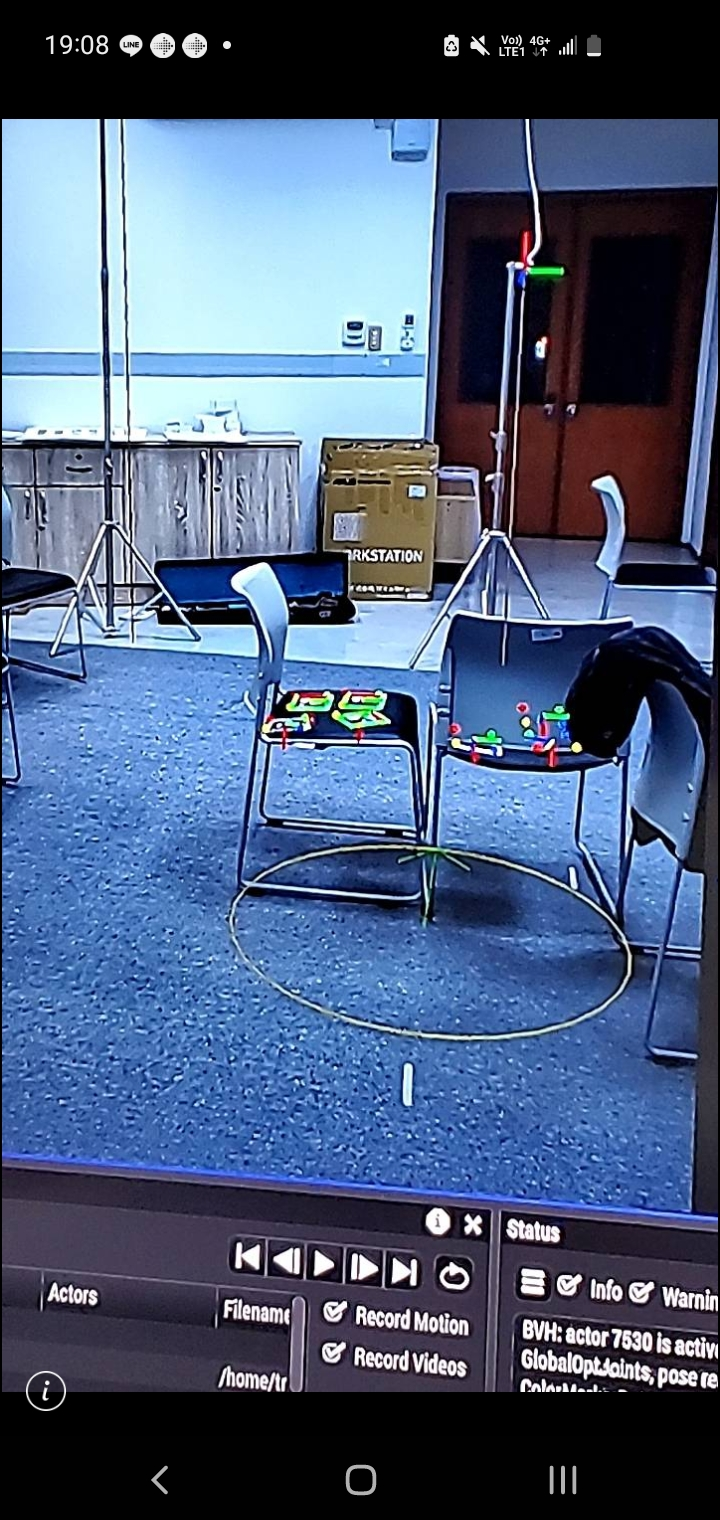
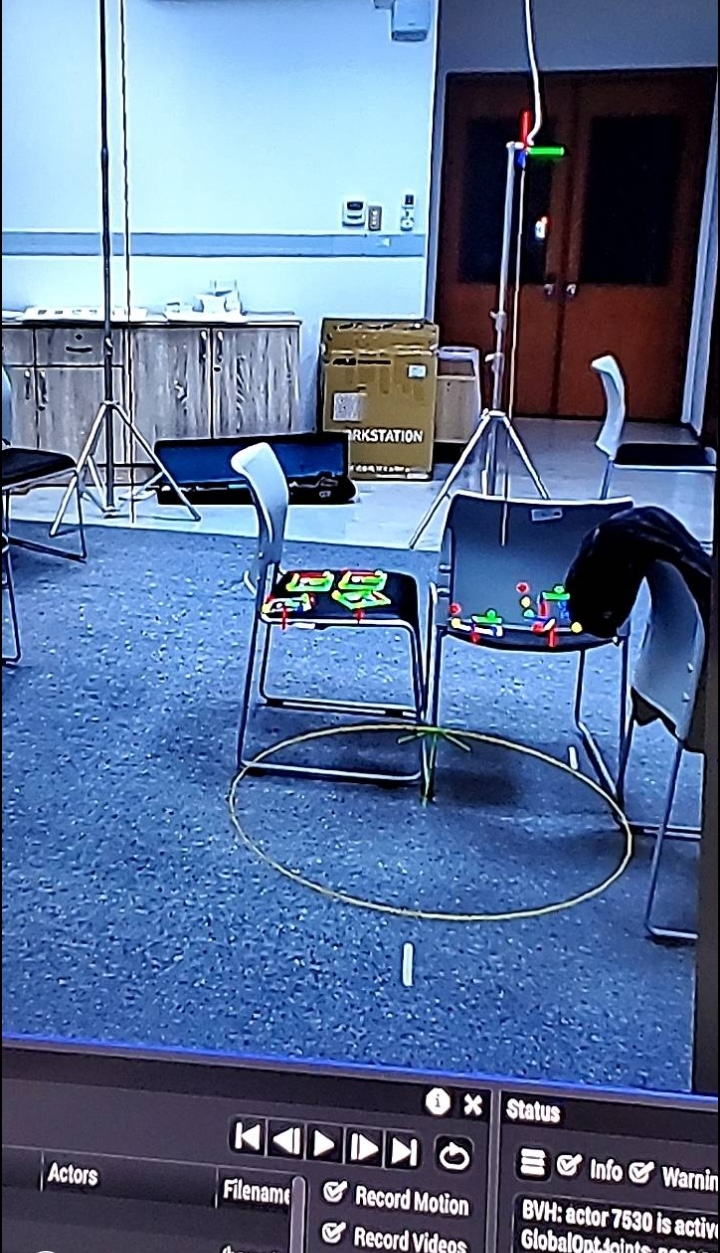
update portfolio

diff --git a/cases/live-concert-sync.html b/cases/live-concert-sync.html
@@ -8,33 +8,42 @@
     <meta http-equiv="Content-Security-Policy"
         content="default-src 'self'; script-src 'self'; style-src 'self' 'unsafe-inline'; font-src 'self'; img-src 'self' data: blob:; media-src 'self' data: blob:; connect-src 'self'; worker-src 'self' blob:; object-src 'none'; base-uri 'self'">
     <title>Erhu Live Concert AI Motion Capture Sync | Kim Fung</title>
-    <meta name="description" content="Real-time dual-venue synchronization of live Erhu performance audio and AI motion capture telemetry across a 1,000-seat concert hall and virtual campus using Unity and MQTT.">
+    <meta name="description" content="Real time dual venue synchronization of live Erhu performance audio and AI motion capture telemetry across a 1,000 seat concert hall and virtual campus using Unity and MQTT.">
+    <link rel="icon" href="../assets/favicon.svg" type="image/svg+xml">
     <!-- Self-hosted fonts: no third-party requests -->
-    <link rel="preload" href="../assets/fonts/vendor/opensans-latin.woff2" as="font" type="font/woff2" crossorigin>
+    <link rel="preload" href="../assets/fonts/vendor/manrope-latin-600.woff2" as="font" type="font/woff2" crossorigin fetchpriority="high">
+    <link rel="preload" href="../assets/fonts/vendor/geist-mono-latin-400.woff2" as="font" type="font/woff2" crossorigin>
     <link rel="stylesheet" href="../assets/fonts/fonts.css">
     <link rel="stylesheet" href="../style.css">
     <link rel="stylesheet" href="case.css">
+    <link rel="stylesheet" href="live-concert-sync.css">
 </head>
 
 <body class="case-page">
+    <a href="#main-content" class="skip-to-content">Skip to content</a>
 
     <header class="case-nav">
         <div class="case-container case-nav-inner">
             <a href="../index.html" class="case-nav-brand">Kim Fung</a>
             <nav class="case-nav-links">
-                <a href="../index.html#experience" class="case-nav-link back-link">Back to Journey</a>
+                <a href="../index.html#showcases" class="case-nav-link back-link">Back to my works</a>
                 <a href="ieee-vr-conflict.html" class="case-nav-link">Next Case</a>
             </nav>
         </div>
     </header>
 
-    <main class="case-container">
+    <main class="case-container" id="main-content">
 
         <header class="case-hero">
-            <span class="case-kicker">Concert Hall Systems Integration</span>
-            <h1 class="case-title">Synchronized live stage audio and AI motion capture across physical and virtual venues</h1>
+            <div class="case-media-hero">
+                <video controls autoplay muted loop playsinline poster="../assets/system_integration/rehearsal-erhu-concert.jpg">
+                    <source src="../assets/system_integration/virtual_concert.mp4" type="video/mp4">
+                    Your browser does not support the video tag.
+                </video>
+            </div>
+
             <p class="case-subtitle">
-                I engineered an MQTT and WebSocket telemetry pipeline in Unity to synchronize live Erhu audio with optical motion capture, broadcasting simultaneously to a 1,000-seat concert hall and an interactive virtual campus.
+                I engineered an MQTT and WebSocket telemetry pipeline in Unity to synchronize live Erhu audio with optical motion capture, broadcasting simultaneously to a 1,000 seat concert hall and an interactive virtual campus.
             </p>
 
             <div class="case-meta-grid">
@@ -57,21 +66,14 @@
             </div>
         </header>
 
-        <div class="case-media-hero">
-            <video controls autoplay muted loop playsinline poster="../assets/system_integration/rehearsal-erhu-concert.jpg">
-                <source src="../assets/system_integration/virtual_concert.mp4" type="video/mp4">
-                Your browser does not support the video tag.
-            </video>
-        </div>
-
         <section class="case-section">
             <h2 class="case-section-title">Context and Live Stage Problem</h2>
             <div class="case-body">
                 <p>
-                    When National Tainan University of the Arts staged a premier live Erhu concert in our 1,000-seat auditorium, I was responsible for integrating the real-time stage telemetry. The university wanted to project an interactive 3D virtual avatar on the auditorium stage that mirrored the master musician live, while simultaneously streaming that performance into an interactive virtual campus environment for remote attendees.
+                    When National Tainan University of the Arts staged a premier live Erhu concert in our 1,000 seat auditorium, I was responsible for integrating the real time stage telemetry. The university wanted to project an interactive 3D virtual avatar on the auditorium stage that mirrored the master musician live, while simultaneously streaming that performance into an interactive virtual campus environment for remote attendees.
                 </p>
                 <p>
-                    The live performance generated two distinct real-time streams at high frequencies: clean acoustic audio from stage microphones, and continuous skeletal motion tracking capturing the musician bowing arm, hand articulation, and posture.
+                    The live performance generated two distinct real time streams at high frequencies: clean acoustic audio from stage microphones, and continuous skeletal motion tracking capturing the musician bowing arm, hand articulation, and posture.
                 </p>
                 <p>
                     During early stage tests, the initial transmission setup broke down quickly. Sending raw motion capture frames directly across local sockets caused packet jitter and frame drops under the hall network load. When the performer transitioned into rapid bowing passages, the avatar arm snapped erratically between poses and fell behind the acoustic notes. If the visual bowing reversed direction even half a second after the audience heard the note strike, the illusion collapsed. At the same time, attempting to stream uncompressed joint hierarchies directly to remote virtual campus clients overloaded the stage machine and risked dropping frames onstage.
@@ -87,7 +89,7 @@
                 </p>
                 <ul>
                     <li>
-                        <strong>Musician Rehearsal Shadowing:</strong> I attended full rehearsals alongside the master musician to observe the relationship between physical gestures and musical attacks. I discovered that before rapid bowing phrases, the performer executed an organic preparatory motion roughly 0.8 seconds before sound onset. Rather than forcing unstable zero-latency algorithmic streaming, I calibrated a 1.5-second deterministic playback buffer in Unity. This buffer absorbed optical tracking variance and temporal network jitter while keeping visual bowing locked to musical timing.
+                        <strong>Musician Rehearsal Shadowing:</strong> I attended full rehearsals alongside the master musician to observe the relationship between physical gestures and musical attacks. I discovered that before rapid bowing phrases, the performer executed an organic preparatory motion roughly 0.8 seconds before sound onset. Rather than forcing unstable zero latency algorithmic streaming, I calibrated a 1.5-second deterministic playback buffer in Unity. This buffer absorbed optical tracking variance and temporal network jitter while keeping visual bowing locked to musical timing.
                     </li>
                     <li>
                         <strong>Payload Stripping and Vector Extraction:</strong> Raw motion tracking systems emit dense bone hierarchies that quickly flood local sockets. I built an ingestion pipeline in Unity via TCP sockets that discarded unnecessary coordinate trees, extracting only essential joint rotational vectors and root offsets. This compressed the transmission payload and eliminated redundant hierarchy recalculations on the stage rendering engine.
@@ -99,15 +101,22 @@
                         <strong>Audio and Motion Timestamp Alignment:</strong> I synchronized motion capture frame sequences directly with stage microphone audio timestamps. Aligning joint turnaround markers with acoustic note transients ensured that avatar bow direction changes matched the sharp attack of fast Erhu passages without cumulative phase drift.
                     </li>
                     <li>
-                        <strong>Hall Dress Rehearsals and Stress Testing:</strong> During full-dress rehearsals with stage lighting and audience network conditions, I benchmarked telemetry throughput and queue handling. I tuned buffer thresholds and interpolation curves in Unity so that momentary network hiccups gracefully blended between valid frames instead of snapping or freezing.
+                        <strong>Hall Dress Rehearsals and Stress Testing:</strong> During full dress rehearsals with stage lighting and audience network conditions, I benchmarked telemetry throughput and queue handling. I tuned buffer thresholds and interpolation curves in Unity so that momentary network hiccups gracefully blended between valid frames instead of snapping or freezing.
                     </li>
                 </ul>
 
                 <figure class="case-figure">
                     <img src="../assets/system_integration/rehearsal-erhu-concert.jpg"
-                        alt="Auditorium stage rehearsal: Calibrating motion capture sensors and audio feeds in the 1,000-seat hall"
+                        alt="Auditorium stage rehearsal: Calibrating motion capture sensors and audio feeds in the 1,000 seat hall"
                         loading="lazy">
-                    <figcaption>Auditorium stage rehearsal: Calibrating motion capture sensors and audio feeds in the 1,000-seat hall</figcaption>
+                    <figcaption>Auditorium stage rehearsal: Calibrating motion capture sensors and audio feeds in the 1,000 seat hall</figcaption>
+                </figure>
+
+                <figure class="case-figure case-figure-portrait">
+                    <img src="../assets/system_integration/multi-camera-ai-motion-capture-with-erhu-object-tracking.jpg"
+                        alt="Multi-camera optical motion capture rig tracking Erhu instrument and performer in the auditorium"
+                        loading="lazy">
+                    <figcaption>Optical motion tracking setup: Multi-camera rig tracking Erhu instrument and performer</figcaption>
                 </figure>
             </div>
         </section>
@@ -120,7 +129,7 @@
                 </p>
                 <ul>
                     <li>
-                        <strong>Interactive Rendering Runtime (Unity 3D):</strong> Custom C# runtime executing real-time skeletal retargeting, avatar deformation, and coordinate transformations mapped directly to hall stage projection.
+                        <strong>Interactive Rendering Runtime (Unity 3D):</strong> Custom C# runtime executing real time skeletal retargeting, avatar deformation, and coordinate transformations mapped directly to hall stage projection.
                     </li>
                     <li>
                         <strong>Messaging and Protocols (MQTT over TCP and WebSockets):</strong> Decoupled pub/sub telemetry broker isolating the onstage rendering engine from client network spikes, publishing motion markers to lightweight topics.
@@ -132,7 +141,7 @@
                         <strong>Synchronization and Playback Engine:</strong> Deterministic 1.5-second playback buffer in Unity aligning motion frame sequences with acoustic microphone note transients to absorb optical tracking noise and packet jitter.
                     </li>
                     <li>
-                        <strong>Dual-Target Broadcast Infrastructure:</strong> Direct video output to auditorium stage projection alongside concurrent telemetry streaming to remote clients in an interactive virtual campus environment.
+                        <strong>Dual Target Broadcast Infrastructure:</strong> Direct video output to auditorium stage projection alongside concurrent telemetry streaming to remote clients in an interactive virtual campus environment.
                     </li>
                 </ul>
             </div>
@@ -142,9 +151,9 @@
             <h2 class="case-section-title">Practical Outcomes and Lessons Learned</h2>
             <div class="case-body">
                 <div class="case-callout">
-                    <div class="case-callout-title">Dual-Venue Synchronization Reliability</div>
+                    <div class="case-callout-title">Dual Venue Synchronization Reliability</div>
                     <p class="case-callout-text">
-                        The virtual avatar remained cohesive with the live Erhu performance throughout the entire concert. Both the 1,000-seat physical audience and remote virtual campus attendees experienced fluid motion tracking aligned with the acoustic music.
+                        The virtual avatar remained cohesive with the live Erhu performance throughout the entire concert. Both the 1,000 seat physical audience and remote virtual campus attendees experienced fluid motion tracking aligned with the acoustic music.
                     </p>
                 </div>
 
@@ -162,7 +171,7 @@
                 <div class="case-callout case-callout-lessons">
                     <div class="case-callout-title">What I Learned on Stage</div>
                     <p class="case-callout-text">
-                        Live real-time multimodal synchronization cannot be solved purely by chasing theoretical zero latency. On a live stage, tracking algorithms face optical interference from theatrical lighting, rapid human gestures, and unpredictable local networks.
+                        Live real time multimodal synchronization cannot be solved purely by chasing theoretical zero latency. On a live stage, tracking algorithms face optical interference from theatrical lighting, rapid human gestures, and unpredictable local networks.
                     </p>
                     <p class="case-callout-text">
                         Spending time in rehearsals to understand the physical cadence of the performer, calibrating a deterministic buffer around musical attacks, and decoupling data distribution with proven pub/sub protocols delivered stage stability that raw algorithms alone could never achieve.

diff --git a/cases/live-concert-sync.css b/cases/live-concert-sync.css
@@ -1,0 +1,14 @@
+/* ==========================================================================
+   Live Concert Dual-Venue Telemetry Sync Stylesheet
+   Inherits design tokens from ../style.css and foundation from case.css
+   ========================================================================== */
+
+/* Hero section adjustments: lead with media */
+.case-hero {
+    padding-top: var(--space-400);
+}
+
+.case-hero .case-media-hero {
+    margin-top: 0;
+    margin-bottom: var(--space-400);
+}
